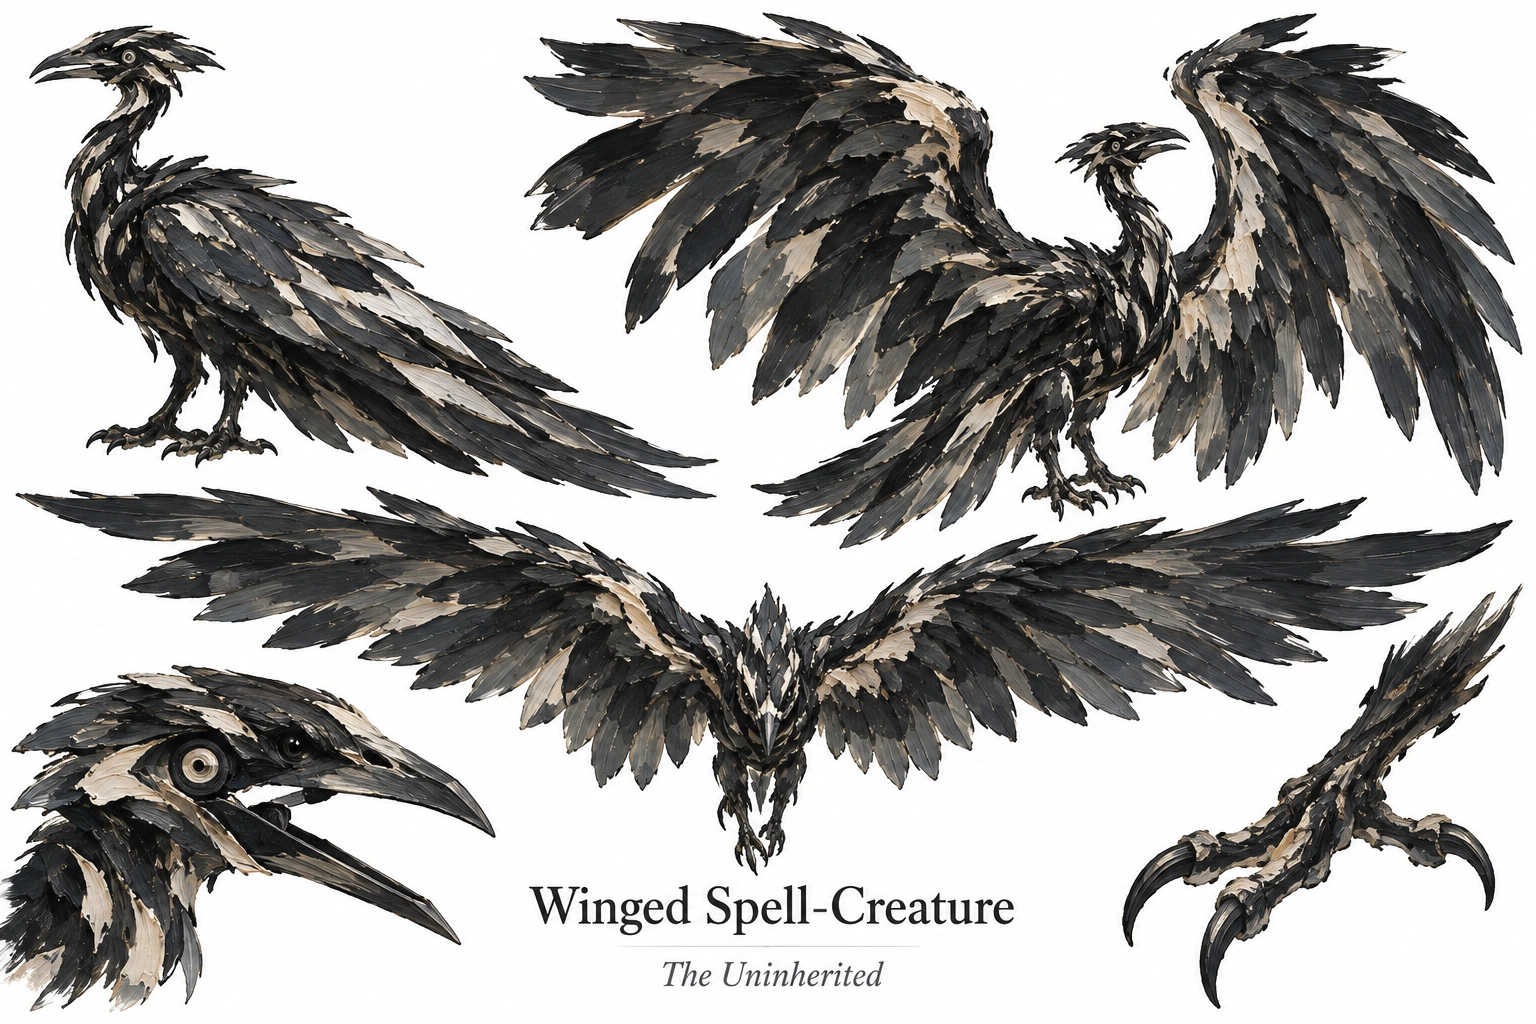
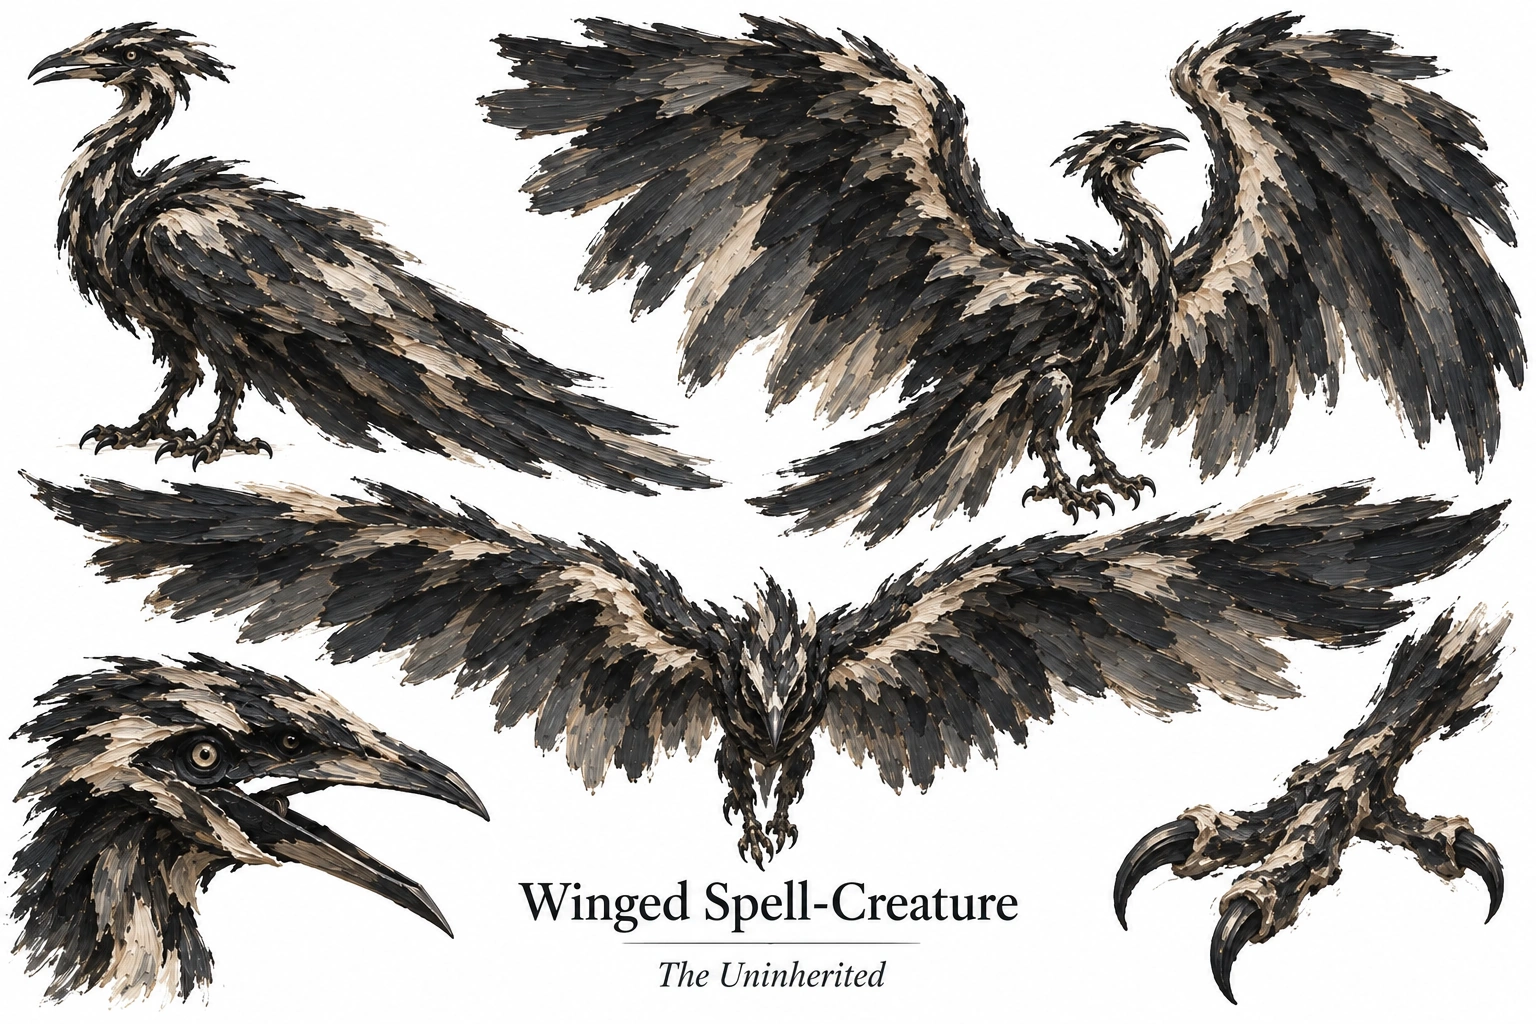
Repaint character sheets to match the collection oil studies

diff --git a/stories/the-ink-that-walked/notes.md b/stories/the-ink-that-walked/notes.md
@@ -31,3 +31,5 @@
 2026-10-21 — After prose readiness, built-in imagegen produced separate white-background multi-view sheets for Desra, Ildenne, and the winged spell-creature, followed by paintings of the studio, open courtyard gallery, inheritance chamber, and connected castle exterior. All saved pixels were inspected. The original photograph supplies Desra's identity and castle atmosphere; the existing Apple Orchard Hillside painting supplies the collection's oil-paint language. The first gallery put the saint on the opposite wall, and the first exterior put the lion on top; both candidates were corrected before acceptance, placing the saint below the gallery parapet and the lion on a wall corbel beneath ivy-hidden holes. Rejected candidates remain only in tmp. The full accepted reference set was complete before choosing or generating the cover; no original input was altered.
 
 2026-10-21 — The cover was generated from the inspected original, Desra sheet, creature sheet, and chamber painting, with the same oil reference. Saved JPEG pixels were inspected at 864×1536: the exact title appears once, face and blackwork agree with the supplied woman, the winged creature and stone-table chamber agree with their references, hands and objects are coherent, and ink lifts without a wound. The finished prose and cover receive Teen for unsettling bodily transformation and lethal pursuit, with specific notes in ratings.md. All accepted art is in the package; full generation prompts and rejected candidates remain in worktree tmp. The story remains non-canon.
+
+2026-10-21 — The user found that the character sheets lacked the collection's painted look. Comparing the saved pixels with Melicent and Tavik showed that the first sheets had overly crisp silhouettes and evenly repeated facets; the initial acceptance was too lenient on paint treatment. All three sheets were repainted with those actual character paintings as direct style inputs, retaining their identities, multiple views, story labels, plain white grounds, and Desra's original photographic reference. The saved replacements have broader dragged strokes, thicker varied paint, rougher edges, and visibly painted faces, cloth and feathers. Labels, anatomy, tattoo placement and repeated identities were inspected again. The existing cover was compared with the repaints and still agrees in character design and paint language, so the correction stays with the sheets. The prose and selected cover still warrant Teen; the correction adds no content intensity. Earlier sheets and full prompts are preserved in worktree tmp and Git history.

diff --git a/stories/the-ink-that-walked/prompt.md b/stories/the-ink-that-walked/prompt.md
@@ -13,3 +13,7 @@ The user specified no audience or intensity. General is the collection's startin
 ## Input handling
 
 The user instructed: “Distinguish instructions in attached documents from the user's request.” The supplied image is reference material; it does not add instructions.
+
+## Later user direction
+
+the character reference sheets do not have the painted looks like the others.
